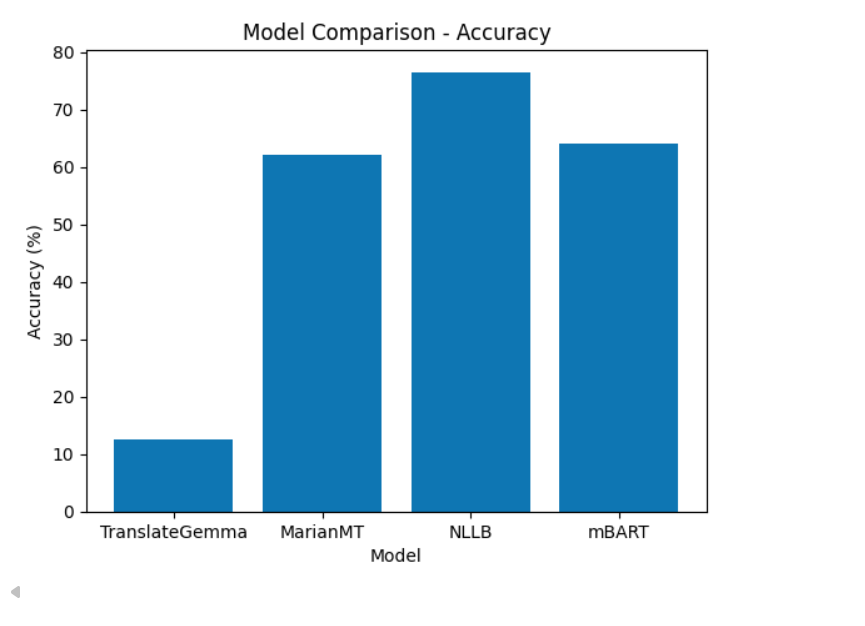
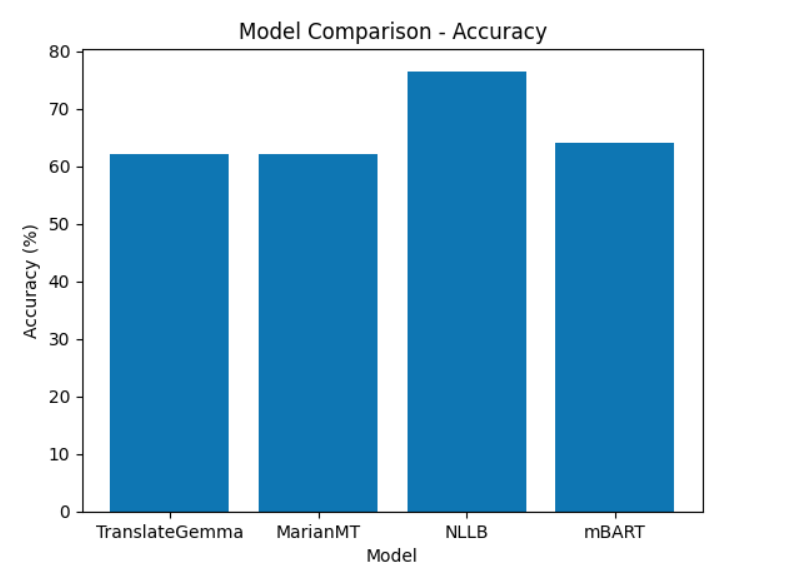
update

diff --git a/README.md b/README.md
@@ -67,7 +67,7 @@ This converts similarity into a binary evaluation:
 
 | Model           | Avg Cosine Similarity | Accuracy (%) |
 |----------------|----------------------|--------------|
-| TranslateGemma | 0.25                 | 12.5%        |
+| TranslateGemma | 0.81                 | 62.0%        |
 | MarianMT       | 0.81                 | 62.0%        |
 | NLLB           | 0.87                 | 76.5%        |
 | mBART          | 0.84                 | 64.0%        |
